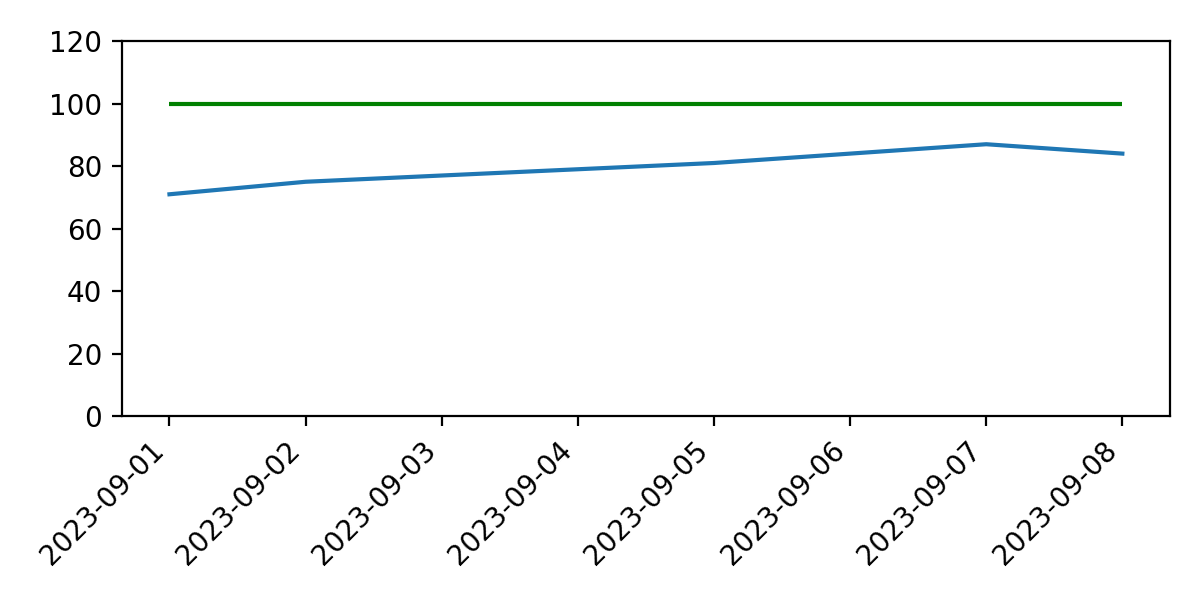
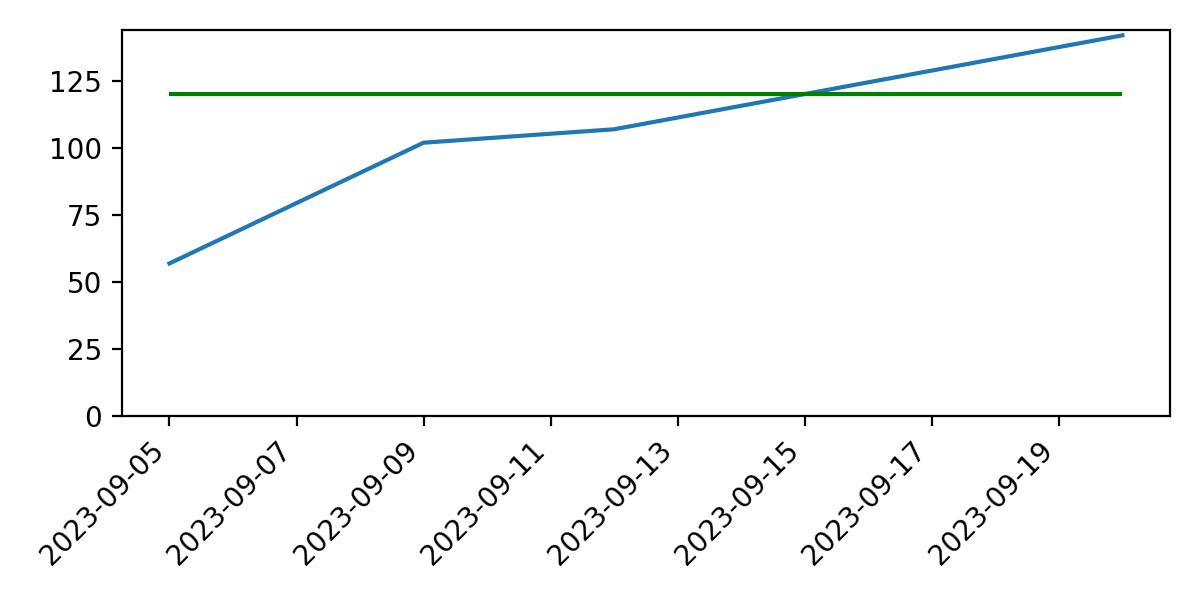
working status, design todo

diff --git a/Guitar_Practice/templates/task_detail.html b/Guitar_Practice/templates/task_detail.html
@@ -8,6 +8,7 @@
     <title>Guitar Practice Tracker</title>
     <script src="https://kit.fontawesome.com/08ebfe01f5.js" crossorigin="anonymous"></script>
 
+
     <link rel="stylesheet" href="../static/css/main.css" />
 
     <script>
@@ -167,83 +168,124 @@
     </script>
 </head>
 
-<body onload="my_onload()" onkeydown="handle_key(event)" style="margin:5px;">
+<body onload="my_onload()" onkeydown="handle_key(event)" style="background-color: rgb(245, 245, 245);">
 
-    <div class="columns is-mobile is-vcentered" style="width: 100%; overflow-x: hidden;margin-top: 10px;">
-        <div class="column is-one-half has-text-left">
+    <div class="columns is-mobile is-vcentered" style=" overflow-x: hidden;padding-top: 1em; background-color: white; padding-bottom: 3em;">
+        <div class="column is-one-quarter has-text-left">
             <form class="buttons" action="/task_list" method="get">
-                <button class="text is-size-4 has-text-weight-semibold"
-                    style="border: none; background: none; color: black; margin: 0;position: relative; bottom: 5px;">GuitarPractice</button>
+                <button class="button is-normal fa-solid fa-chevron-left is-centered"
+                    style="border: none; background: none; color: black; margin: 0;position: relative; bottom: 5px;"
+                    </button>
             </form>
         </div>
-        <div class="column is-one-half is-right">
-            <form class="buttons is-right" action="/logout" method="get">
+        <div class="column is-one-half is-vcentered">
+            <div class="text is-size-5 has-text-centered has-text-weight-semibold"> {{ task.title }} ({{ task.target_bpm }} BPM)</div>
+        </div>
+
+
+        <div class="column is-one-quarter is-right">
+            <!---<form class="buttons is-right" action="/logout" method="get">
                 <button class="button is-block is-light is-normal ">Logout</button>
-            </form>
+            </form>--->
         </div>
     </div>
 
+  
 
-
-    <div style="margin-top: 20px;" class="ui container">
-
-        <div class="text is-size-5 has-text-centered"> {{ task.title }} ({{ task.target_bpm }} BPM)</div>
-        <br>
-
-        <div class="columns is-mobile is-vcentered is-gapless is-centered" style="width: 100%; overflow-x: hidden;">
+    <div>
+        <form class="columns is-mobile is-vcentered is-gapless is-centered" action="/addsession" method="post" style="margin-left: 3vw;
+        margin-right: 3vw; 
+        margin-top: -3em;
+        margin-bottom: 0.5em;
+        background-color: white; 
+        padding: 0.8em;
+        box-shadow: 0 4px 8px 0 rgba(0, 0, 0, 0.2), 0 6px 20px 0 rgba(0, 0, 0, 0.19)">
             <div class="column is-narrow" style="margin: 5px;">
-                <button onclick="play_or_stop()" id="my_play_button" class="button is-light is-small ">Start</button>
+                <input class="input is-small is-rounded" name="date" type="date" placeholder="Date" value={{today}}
+                    style="width: 10em; position: relative; z-index: 1;" required>
             </div>
             <div class="column is-narrow" style="margin: 5px;">
-                <div class="control">
-                    <input class="input is-small" id="my_bpm_input_field" type="number" inputmode="decimal"
-                        onchange="change_bpm_field()" style="width: 3em;" min="40" max="200" step="1"
-                        value="{{last_session.bpm}}" />
-                </div>
+                <input class="input is-small is-rounded" id="input_bpm" name="bpm" type="number" placeholder="BPM"
+                    inputmode="decimal" style="width: 8em; position: relative; right: 40px; padding-left: 40px;" required>
             </div>
-            <div class="column is-narrow" style="margin: 5px;">
-                <input id="my_bpm_input_range" type="range" onchange="change_bpm_range()" min="40" max="200" step="1"
-                    value="{{last_session.bpm}}" style="width: 40vw;" />
-            </div>
-            <div class="column is-narrow" style="margin: 5px;">
-                <div class="buttons">
-                    <button class="button is-info is-small fa-solid fa-minus" onclick="increment_bpm(-1)"
-                        style="width: 3em;"></button>
-                    <button class="button is-info is-small fa-solid fa-plus" onclick="increment_bpm(1)"
-                        style="width: 3em;"></button>
-                </div>
-            </div>
-        </div>
-
-
-
-        <form class="columns is-mobile is-vcentered is-gapless is-centered" action="/addsession" method="post">
-            <div class="column is-narrow" style="margin: 5px;">
-                <input class="input is-normal" name="date" type="date" placeholder="Date" value={{today}}
-                    style="width: 10em;" required>
-            </div>
-            <div class="column is-narrow" style="margin: 5px;">
-                <input class="input is-normal" id="input_bpm" name="bpm" type="number" placeholder="BPM"
-                    inputmode="decimal" style="width: 4em;" required>
-            </div>
-            <div class="column is-narrow" style="margin: 5px;">
+            <div class="column is-narrow" style="margin: 0px;">
                 <input type="hidden" name="task_id" value="{{task.id}}">
-                <button class="button is-normal is-success fa-solid fa-plus" type="submit"></button>
+                <button class="button is-small is-success fa-solid fa-plus is-rounded" type="submit" style="position: relative; right: 25px; width: 4em;"></button>
             </div>
         </form>
+    </div>
+
+    <div>
+        <script src="https://cdnjs.cloudflare.com/ajax/libs/Chart.js/3.5.1/chart.js"></script>
+        <script
+            src="https://cdn.jsdelivr.net/npm/chartjs-adapter-date-fns/dist/chartjs-adapter-date-fns.bundle.min.js"></script>
+        <div style="height: 30vh; margin-left: 5vw; margin-right: 5vw; background-color: white;
+        box-shadow: 0 4px 8px 0 rgba(0, 0, 0, 0.2), 0 6px 20px 0 rgba(0, 0, 0, 0.19)">
+            <canvas id="chartJSContainer" style="width: 100%;"></canvas>
+        </div>
+        <script>        
+            var options = {
+                type: 'line',
+                data: {
+                    datasets: [
+                        {
+                            borderColor: 'blue',
+                            data: [
+                            {% for item in data %}
+                                { x: new Date({{item[0][0]}}, {{item[0][1]}}, {{item[0][2]}}), y: {{item[1]}} },
+                            {% endfor %}
+                            ]
+                        },
+                        {
+                            borderColor: 'green',
+                            borderDash: [10,5],
+                            data: [
+                            {% for item in data %}
+                                { x: new Date({{item[0][0]}}, {{item[0][1]}}, {{item[0][2]}}), y: {{ task.target_bpm }} },
+                            {% endfor %}
+                            ]
+                        }                
+                ]
+                },
+                options: {
+                    maintainAspectRatio: false,
+                    scales: {
+                        xAxes: {
+                            type: 'time',
+                            time: {
+                    unit: 'day',          
+                    displayFormats: {
+                        day: 'dd MMM yy' 
+                    }  
+                            }
+                        },
+                        yAxes: {
+                            min: 0,
+                            suggestedMax: {{ task.target_bpm }} * 1.05              
+                        }
+                    },
+                    plugins: {
+                        legend: {
+                            display: false,          
+                        }
+                    }
+                }
+            }
+            var ctx = document.getElementById('chartJSContainer').getContext('2d');
+            new Chart(ctx, options);
+        </script>
+    </div>
 
 
-
-
-        <hr>
-        <img src={{url_for('static', filename=url)}} class="sessions_plot">
-        <hr>
-
-
-
-
+    <div style="overflow-y:scroll;
+    height:40vh;
+    margin: 0.6em;
+    display:block;">
         <table class="table is-hoverable is-fullwidth is-size-7">
-            <thead>
+            <thead style="top: 0;
+            z-index: 2;
+            position: sticky;
+            background-color: white;">
                 <tr>
                     <th>Date</th>
                     <th>BPM</th>
@@ -276,6 +318,41 @@
         </table>
 
 
+    </div>
+
+    <div>
+        <div class="columns is-mobile is-vcentered is-gapless is-centered" style="
+        margin-left: 7vw; 
+        margin-right: 7vw;
+        background-color: white; 
+        padding: 0.8em;
+        position: relative;
+        bottom: 1em;
+        width: 10;
+        box-shadow: 0 4px 8px 0 rgba(0, 0, 0, 0.2), 0 6px 20px 0 rgba(0, 0, 0, 0.19)" class="ui container">
+            <div class="column is-narrow" style="margin: 5px;">
+                <button onclick="play_or_stop()" id="my_play_button" class="button is-light is-small ">Start</button>
+            </div>
+            <div class="column is-narrow" style="margin: 5px;">
+                <div class="control">
+                    <input class="input is-small" id="my_bpm_input_field" type="number" inputmode="decimal"
+                        onchange="change_bpm_field()" style="width: 3em;" min="40" max="200" step="1"
+                        value="{{last_session.bpm}}" />
+                </div>
+            </div>
+            <div class="column is-narrow" style="margin: 5px;">
+                <input id="my_bpm_input_range" type="range" onchange="change_bpm_range()" min="40" max="200" step="1"
+                    value="{{last_session.bpm}}" style="width: 20vw;" />
+            </div>
+            <div class="column is-narrow" style="margin: 5px;">
+                <div class="buttons">
+                    <button class="button is-info is-small fa-solid fa-minus" onclick="increment_bpm(-1)"
+                        style="width: 3em;"></button>
+                    <button class="button is-info is-small fa-solid fa-plus" onclick="increment_bpm(1)"
+                        style="width: 3em;"></button>
+                </div>
+            </div>
+        </div>
     </div>
 
 

diff --git a/Guitar_Practice/templates/tasks.html b/Guitar_Practice/templates/tasks.html
@@ -26,9 +26,7 @@
     </div>
 
 
-    <!---<form class="ui form" action="/logout" method="get">
-            <button class="fa-solid fa-arrow-right-from-bracket btn_logout" type="submit"></button>
-        </form>--->
+    <hr>
 
 
 
@@ -69,8 +67,8 @@
         <tbody>
             {% for task in task_list %}
             <tr style="border-bottom-style: hidden; line-height:10px;">
-                <td style="width: 25vw;">{{task.last_session_date}}</td>
-                <td style="width: 75vw;"><a class="task_list_name" href="/task/{{ task.id }}">{{ task.title }}</a></td>
+                <td style="width: 35vw;">{{task.last_session_date}}</td>
+                <td style="width: 65vw;"><a class="task_list_name" href="/task/{{ task.id }}">{{ task.title }}</a></td>
                 <td rowspan="2" style="vertical-align : middle;text-align:right;">
                     <form style='display: inline;' class="ui form" action="/delete" method="post">
                         <span class="field">

diff --git a/Guitar_Practice/templates/signup.html b/Guitar_Practice/templates/signup.html
@@ -22,6 +22,14 @@
                         <h1 class="title has-text-centered is-size-3">Guitar Practice</h3>
                     </div>
 
+                    {% with messages = get_flashed_messages() %}
+                    {% if messages %}
+                    <div class="notification is-danger">
+                        {{ messages[0] }}
+                    </div>
+                    {% endif %}
+                    {% endwith %}
+
 
                     <form method="POST" action="/signup">
                         <div class="field">

diff --git a/Guitar_Practice/static/css/main.css b/Guitar_Practice/static/css/main.css
@@ -1,8 +1,9 @@
 :root {
     touch-action: pan-x pan-y;
-    height: 100%;
+    height: 100vh;
     max-width: 100%;
     overflow-x: hidden;
+    overflow-y: hidden;
 }
 
 

diff --git a/Guitar_Practice/main.py b/Guitar_Practice/main.py
@@ -92,42 +92,14 @@ def deletesession():
 def task_detail(task_id):
     # todo = Todo.query.filter_by(id=todo_id).first()
     user_id = current_user.get_id()
-    session_list = db.session.query(sessions).filter(sessions.task_id == task_id).filter(sessions.user_id == user_id).order_by(desc(sessions.date)).all()
+    session_list = db.session.query(sessions).filter(sessions.task_id == task_id).filter(sessions.user_id == user_id).order_by(sessions.date).all()
     task = db.session.query(tasks).filter(tasks.id == task_id).filter(tasks.user_id == user_id).first()
     last_session = db.session.query(sessions).filter(sessions.task_id == task_id).filter(sessions.user_id == user_id).order_by(desc(sessions.date)).first()
     print(last_session)
     today = datetime.today().strftime("%Y-%m-%d")
 
-    try:
-        lst_bpm = [r.bpm for r in session_list]
-        lst_date = [r.date for r in session_list]
 
-        fig = Figure(figsize=(6,3), dpi = 200)
-        fig
-        axis = fig.add_subplot(1, 1, 1)
-        xs = lst_date
-        ys = lst_bpm
-        axis.plot(xs, ys)
-        locator = mdates.AutoDateLocator()
-        formatter = mdates.AutoDateFormatter(locator)
+    data = [[[session.date.year, session.date.month,session.date.day], session.bpm] for session in session_list]
 
-        axis.xaxis.set_major_locator(locator)
-        axis.xaxis.set_major_formatter(formatter)
-        fig.autofmt_xdate(rotation=45)
+    return render_template("task_detail.html", task=task, session_list = session_list, today = today, last_session = last_session, data=data)
 
-        #axis.set_xticklabels(axis.get_xticks(), rotation = 45)
-        axis.hlines(y = task.target_bpm, xmin = min(lst_date), xmax=max(lst_date), color = "green")
-        axis.set_ylim(bottom=0, top= task.target_bpm * 1.2)
-        fig.tight_layout()
-        print("file wll be saved now")
-        #fig.savefig("/home/moritzinho/mysite/static/session_plot.png", transparent=True)
-        fig.savefig("Guitar_Practice/static/session_plot.png", transparent=True)
-        print("file saved")
-
-
-        return render_template("task_detail.html", task=task, session_list = session_list, today = today, last_session = last_session, url = "session_plot.png")
-        #return render_template("task_detail.html", task=task, session_list = session_list, today = today, last_session = last_session, url = "/static/session_plot.png")
-    except Exception as e: 
-        print(e)
-        return render_template("task_detail.html", task=task, session_list = session_list, today = today, last_session = last_session, url = "empty.png")
-        return render_template("task_detail.html", task=task, session_list = session_list, today = today, last_session = last_session, url = "/static/empty.png")
